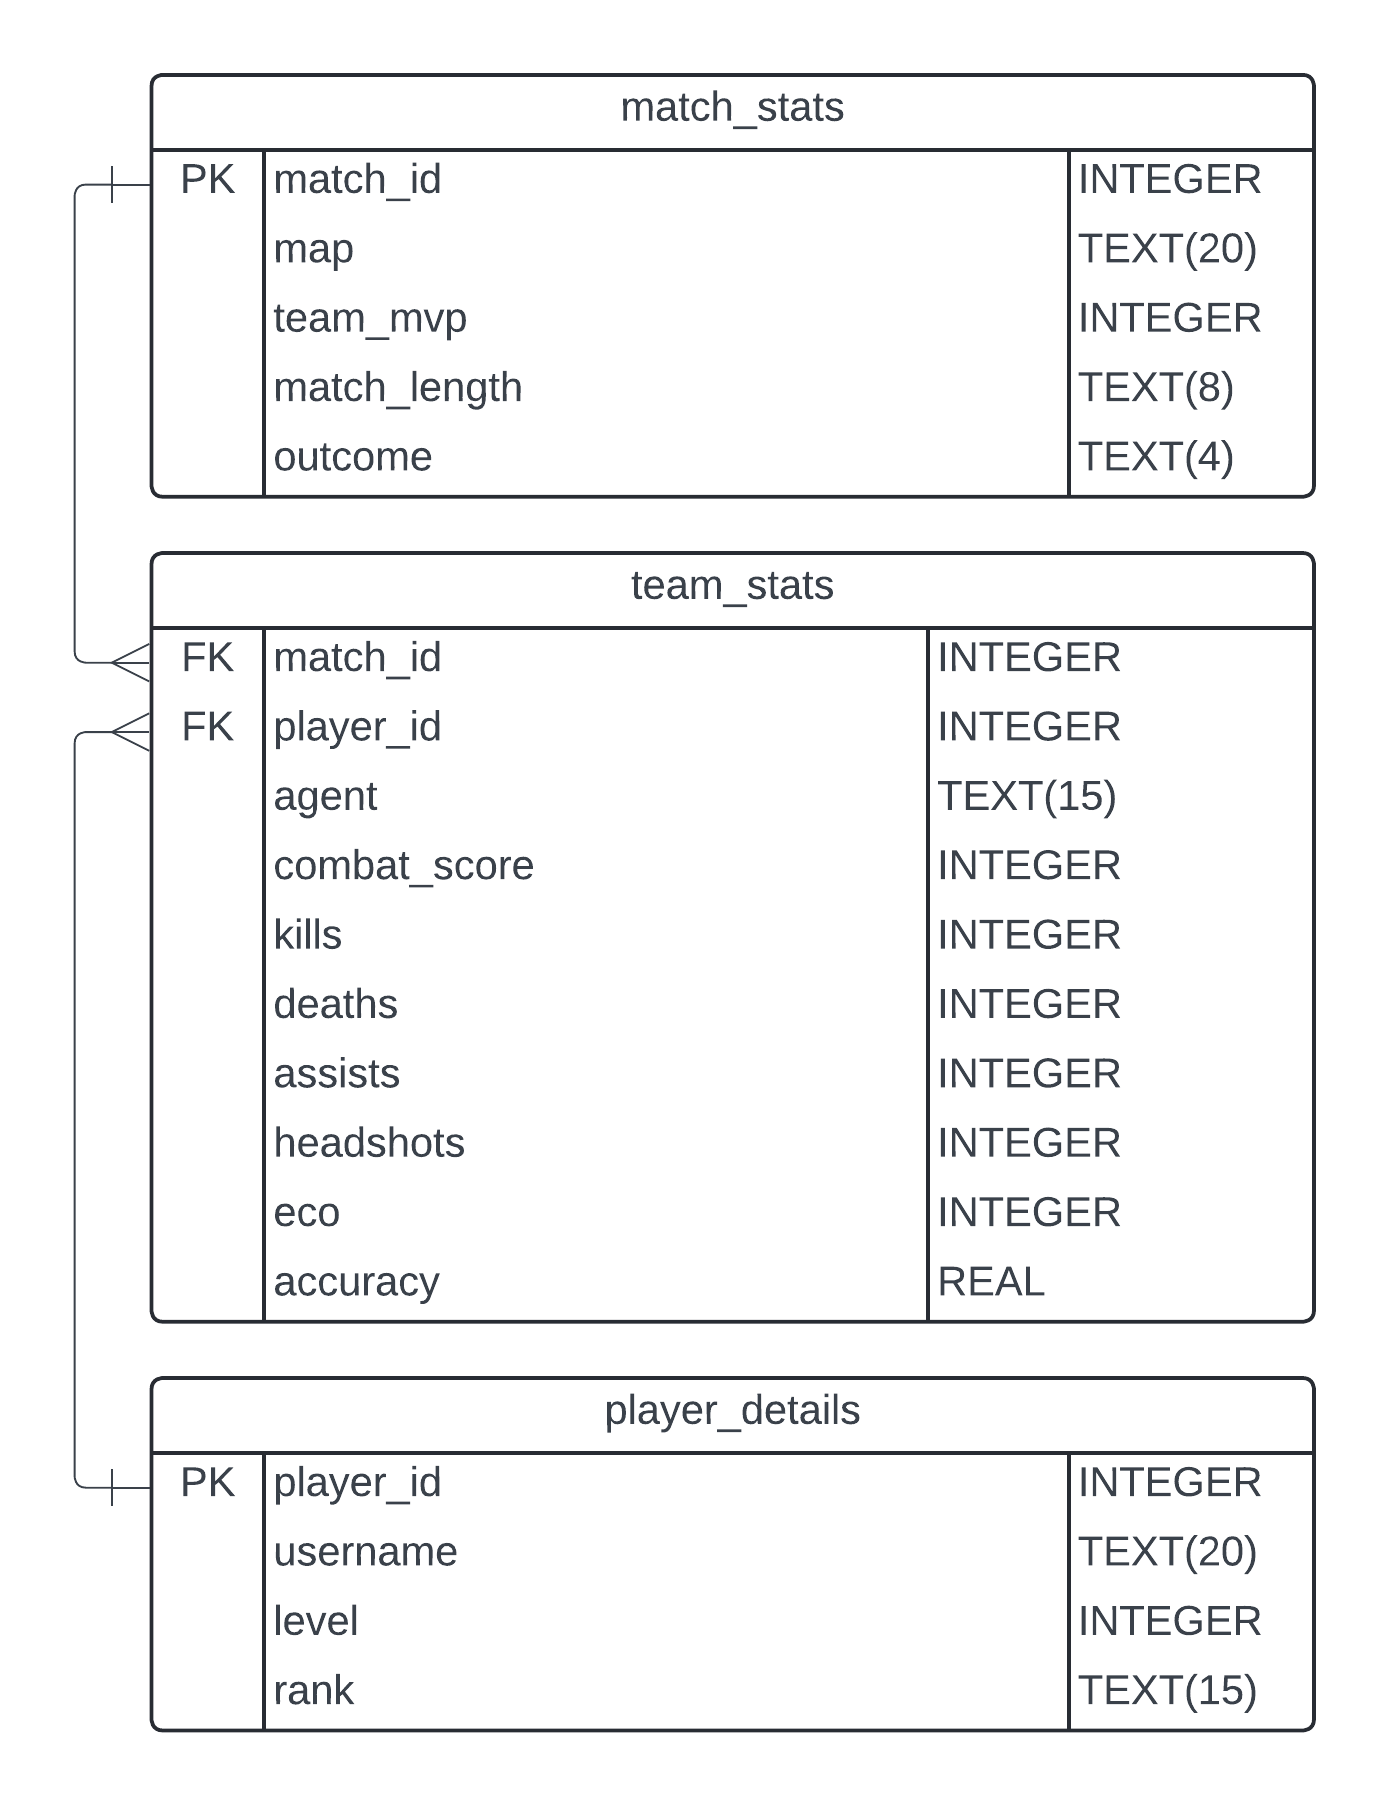
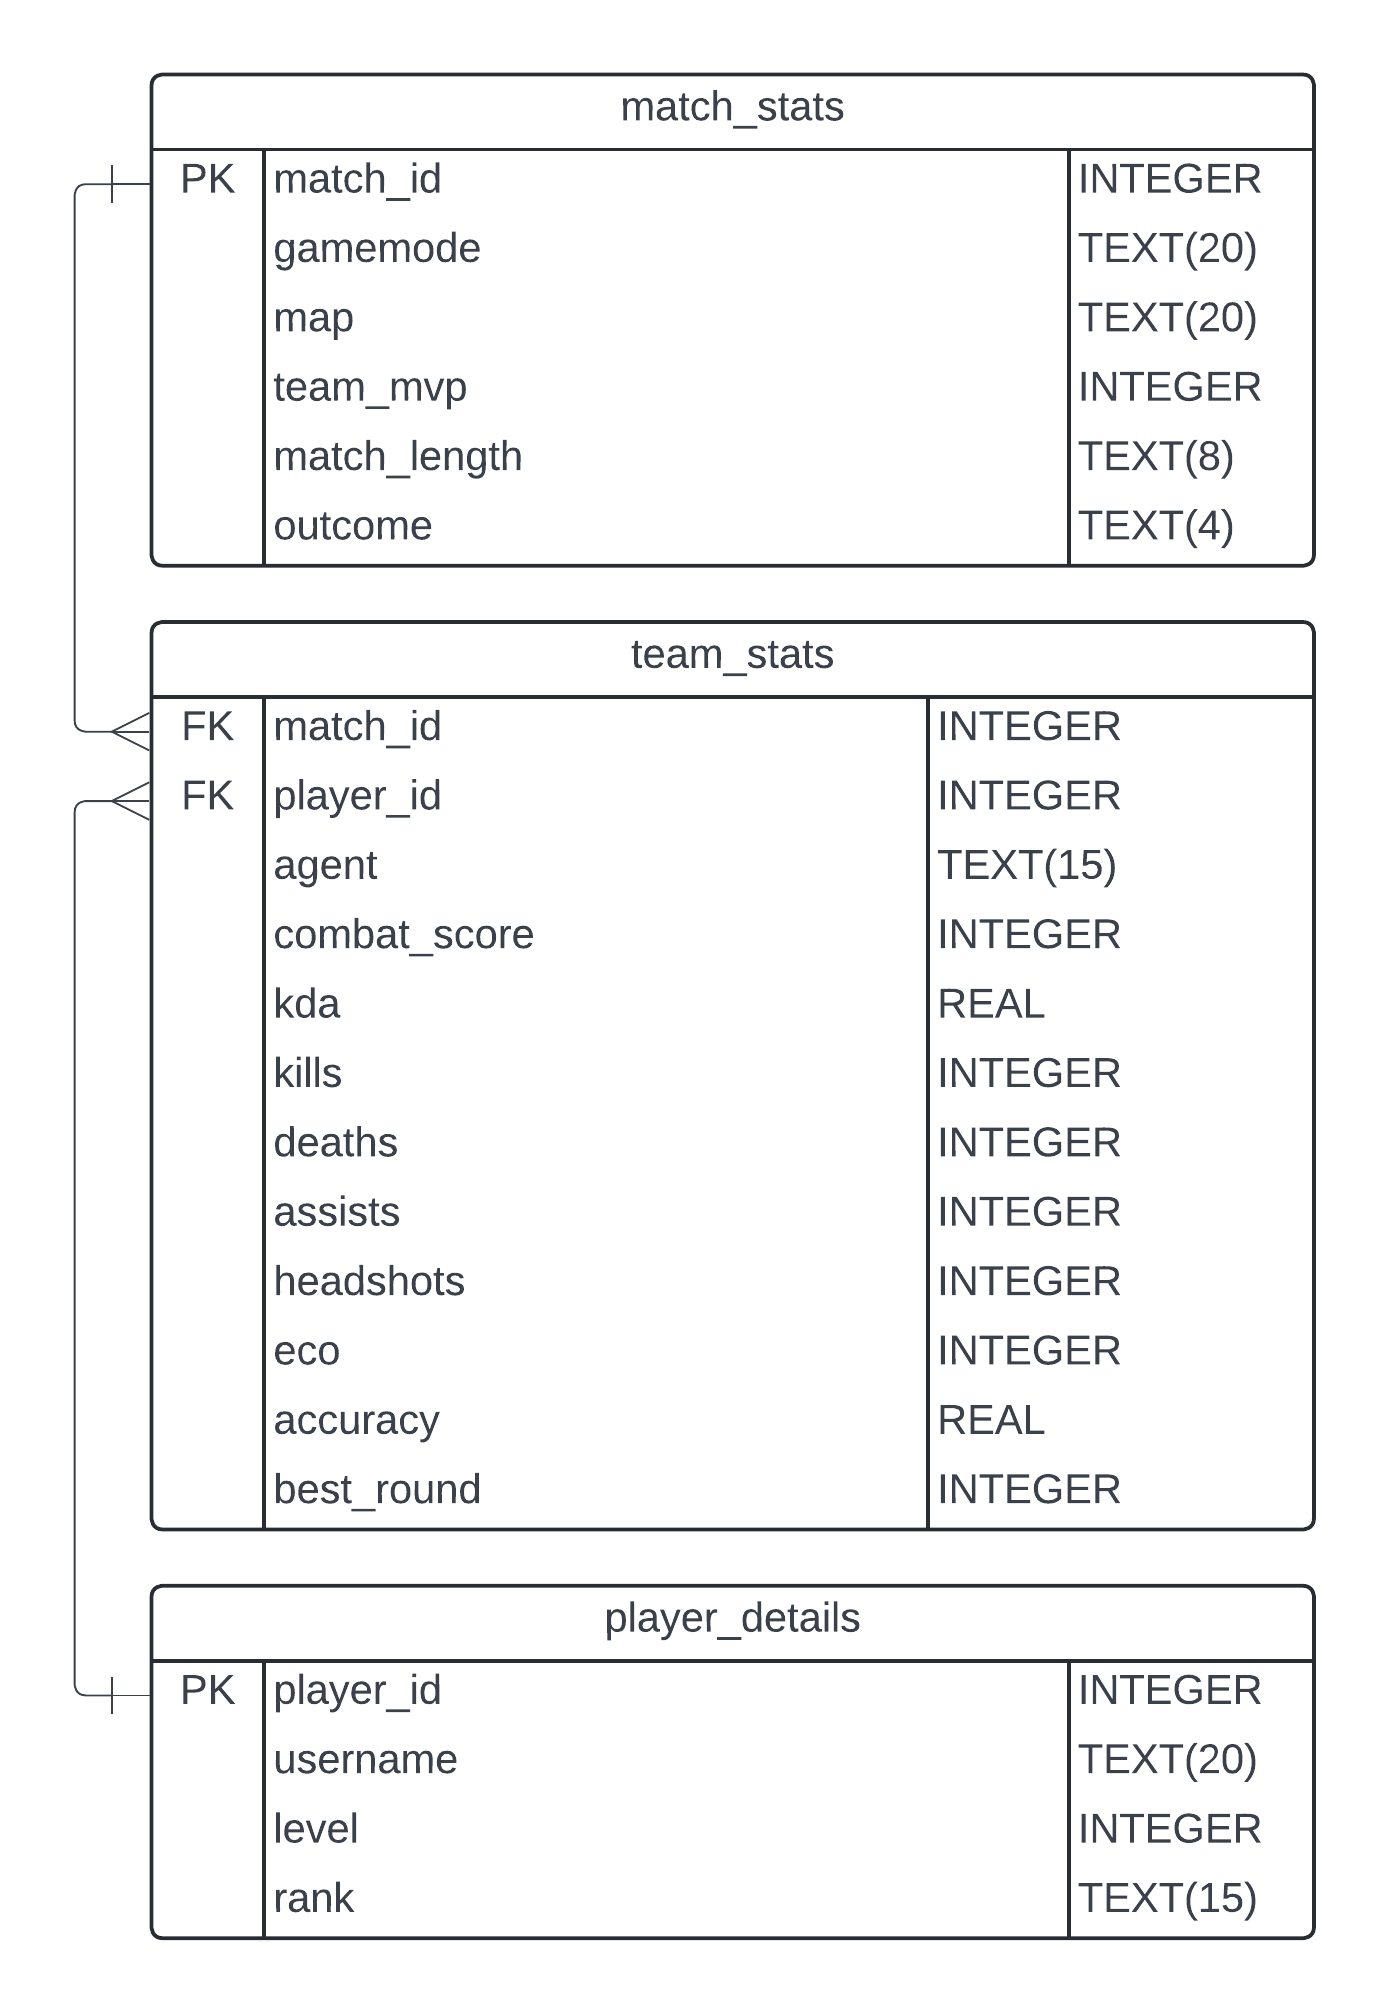
27/06/2024 Finished Custom Paramaters for Text Based UI Updated ERD Updated Database

Changed region(s): [[0.0619, 0.031, 0.9597, 0.9612]]

diff --git a/Valorant Match Stats Interface.py b/Valorant Match Stats Interface.py
@@ -67,70 +67,6 @@ def select_view():
             print("Returning to main selection screen.\n")
         else:
             print("That is not a valid decision, please try again\n")
-
-def basic_custom():
-    print("You chose B: A basic custom view maker. (Parameter Queries)\n")
-    choice = ""
-    while choice != "Z":
-        choice = input("Please choose a table:\n"
-                            "A: Player Details\n"
-                            "B: Match Details\n"
-                            "C: Match Stats\n"
-                            "Z: Exit\n")
-        try:
-            choice = choice.upper()
-        except:
-            ""
-        # Player Details
-        if choice == "A":
-            print("You chose A: Player Details, Choose what columns you want to view.\n")
-            column_list = input("The columns:\n"
-                                "A: Player ID\n"
-                                "B: Username\n"
-                                "C: Level\n"
-                                "D: Rank\n"
-                                "Enter the columns you want to view (Seperated by a space e.g. 'A B C'): ").split()
-            for i in range(len(column_list)):
-                column_list[i] = column_list[i].upper()
-
-        # Match Details
-        elif choice == "B":
-            print("You chose B: Match Details, Choose what columns you want to view.\n")
-            column_list = input("The columns:\n"
-                                "A: Match ID\n"
-                                "B: Map\n"
-                                "C: Team MVP\n"
-                                "D: Match Length\n"
-                                "E: Outcome (Win/Lose)\n"
-                                "Enter the columns you want to view (Seperated by a space e.g. 'A B C'): ").split()
-            for i in range(len(column_list)):
-                column_list[i] = column_list[i].upper()
-        # Match Stats
-        elif choice == "C":
-            print("You chose C: Match Stats, Choose what columns you want to view.\n")
-            column_list = input("The columns:\n"
-                                "A: Match ID\n"
-                                "B: Player ID\n"
-                                "C: Username\n"
-                                "D: Agent\n"
-                                "E: Combat Score\n"
-                                "F: Kills\n"
-                                "G: Deaths\n"
-                                "H: Assists\n"
-                                "I: Headshots\n"
-                                "J: Eco Score\n"
-                                "K: Accuracy\n"
-                                "Enter the columns you want to view (Seperated by a space e.g. 'A B C'): ").split()
-            for i in range(len(column_list)):
-                column_list[i] = column_list[i].upper()
-        elif choice == "Z":
-            print("Returning to main selection screen.\n")
-        else:
-            print("That is not a valid decision, please try again\n")
-        
-        # select names
-        query = naming_selection(column_list, choice)
-        
 def final_query(query, choice):
     if choice == "A":
         where = paramA()
@@ -151,17 +87,18 @@ def paramA():
                             "Z: No Filter\n").upper()
         if param_choice == "A":
             valid = True
-            return(" where username = '"+ input("Please enter a username (Make sure the spelling is correct):\n"))
+            return(" where username = '"+ input("Please enter a username (Make sure the spelling is correct):\n")+"'")
         elif param_choice == "B":
             param = input("Please enter a minimum level:\n")
             valid = True
             try:
-                return(f" where level > {int(param)} and level < "+int(input("Please enter a maximum level:\n")))
+                return(f" where level > {str(int(param))} and level < "+ str(int(input("Please enter a maximum level:\n"))))
             except:
                 valid = False
+                print("That is not a selection. Please try again.")
         elif param_choice == "Z":
             valid = True
-            return()
+            return("")
         else:
             print("That is not a selection. Please try again.")
 def paramB():
@@ -170,26 +107,30 @@ def paramB():
     while valid != True:
         param_choice = input("Please select a filter/parameter:\n"
                             "A: Match ID\n"
-                            "B: Map\n"
-                            "C: Outcome\n"
+                            "B: Gamemode\n"
+                            "C: Map\n"
+                            "D: Outcome\n"
                             "Z: No Filter\n").upper()
         if param_choice == "A":
             valid = True
             try:
-                return(" where match_id = '"+int(input("Please enter a Match ID:\n"))+"'")
+                return(" where match_id = '"+str(int(input("Please enter a Match ID:\n")))+"'")
             except:
                 valid = False
         elif param_choice == "B":
             valid = True
-            return(f" where map = '{input("Please enter a map (Make sure the spelling & is correct):\n").title()}'")
+            return(" where gamemode = '"+input("Please enter a gamemode (Make sure the spelling is correct):\n").title()+"'")
         elif param_choice == "C":
+            valid = True
+            return(" where map = '"+input("Please enter a map (Make sure the spelling is correct):\n").title()+"'")
+        elif param_choice == "D":
             param = input("Please enter an outcome (Win or Lose):\n").title().lower()
             if param == "win" or param == "lose":
                 valid = True
                 return(f" where outcome = '{param}'")
         elif param_choice == "Z":
             valid = True
-            return()
+            return("")
         else:
             print("That is not a selection. Please try again.")
 def paramC():
@@ -200,42 +141,34 @@ def paramC():
                             "A: Match ID\n"
                             "B: Username\n"
                             "C: Combat Score Range\n"
-                            "D: Kills Range\n"
-                            "E: Deaths Range\n"
+                            "D: KDA Range\n"
                             "Z: No Filter\n").upper()
         if param_choice == "A":
             valid = True
             try:
-                return(f" where match_id = '{int(input("Please enter a Match ID:\n"))}'")
+                return(" where match_id = '"+str(int(input("Please enter a Match ID:\n")))+"'")
             except:
                 valid = False
         elif param_choice == "B":
             valid = True
-            return(f" where username = '{input("Please enter a username (Make sure the spelling is correct):\n")}'" )
+            return(" where username = '"+input("Please enter a username (Make sure the spelling is correct):\n")+"'" )
         elif param_choice == "C":
             param = input("Please enter a minimum Combat Score:\n")
             valid = True
             try:
-                return(f" where level > {int(param)} and level < {int(input("Please enter a maximum Combat Score:\n"))}")
+                return(f" where combat_score > {str(int(param))} and combat_score < "+str(int(input("Please enter a maximum Combat Score:\n"))))
             except:
                 valid = False
         elif param_choice == "D":
-            param = input("Please enter a minimum number of kills:\n")
+            param = input("Please enter a minimum KDA:\n")
             valid = True
             try:
-                return(f" where level > {int(param)} and level < {int(input("Please enter a maximum number of kills:\n"))}")
-            except:
-                valid = False
-        elif param_choice == "E":
-            param = input("Please enter a minimum number of deaths:\n")
-            valid = True
-            try:
-                return(f" where level > {int(param)} and level < {int(input("Please enter a maximum number of deaths:\n"))}")
+                return(f" where kda > {str(float(param))} and kda < "+str(float(input("Please enter a maximum KDA:\n"))))
             except:
                 valid = False
         elif param_choice == "Z":
             valid = True
-            return()
+            return("")
         else:
             print("That is not a selection. Please try again.")
 def naming_selection(lst, tabl):
@@ -251,6 +184,8 @@ def naming_selection(lst, tabl):
                 newlist.append("level")
             elif i == "D":
                 newlist.append("rank")
+            elif i == "*":
+                newlist.append("*")
     elif tabl == "B":
         table = "match_stats"
         for i in lst:
@@ -264,13 +199,15 @@ def naming_selection(lst, tabl):
                 newlist.append("match_length as 'match length'")
             elif i == "E":
                 newlist.append("outcome")
+            elif i == "*":
+                newlist.append("*")
     elif tabl == "C":
         table = "team_stats left join player_details on team_stats.player_id = player_details.player_id"
         for i in lst:
             if i == "A":
                 newlist.append("match_id as 'match id'")
             elif i == "B":
-                newlist.append("player_id as 'player id'")
+                newlist.append("team_stats.player_id as 'player id'")
             elif i == "C":
                 newlist.append("username") 
             elif i == "D":
@@ -289,6 +226,8 @@ def naming_selection(lst, tabl):
                 newlist.append("eco")
             elif i == "K":
                 newlist.append("accuracy") 
+            elif i == "*":
+                newlist.append("*")
             
     select_query = ""
     for i in newlist:
@@ -311,6 +250,79 @@ def sql_input(inp):
     print(tabulate(results,headings))
     db.close()
     cont()
+
+def basic_custom():
+    print("You chose B: A basic custom view maker. (Parameter Queries)\n")
+    choice = ""
+    while choice != "Z" or choice != "A" or choice != "B" or choice != "C":
+        choice = input("Please choose a table:\n"
+                            "A: Player Details\n"
+                            "B: Match Details\n"
+                            "C: Match Stats\n"
+                            "Z: Exit\n")
+        try:
+            choice = choice.upper()
+        except:
+            print("ERROR!!!")
+        # Player Details
+        if choice == "A":
+            print("You chose A: Player Details, Choose what columns you want to view.\n")
+            column_list = input("The columns:\n"
+                                "A: Player ID\n"
+                                "B: Username\n"
+                                "C: Level\n"
+                                "D: Rank\n"
+                                "Enter the columns you want to view (Seperated by a space e.g. 'A B C'): ").split()
+            print("")
+            for i in range(len(column_list)):
+                column_list[i] = column_list[i].upper()
+            
+        # Match Details
+        elif choice == "B":
+            print("You chose B: Match Details, Choose what columns you want to view.\n")
+            column_list = input("The columns:\n"
+                                "A: Match ID\n"
+                                "B: Gamemode\n"
+                                "C: Map\n"
+                                "D: Team MVP\n"
+                                "E: Match Length\n"
+                                "F: Outcome (Win/Lose)\n"
+                                "Enter the columns you want to view (Seperated by a space e.g. 'A B C'): ").split()
+            print("")
+            for i in range(len(column_list)):
+                column_list[i] = column_list[i].upper()
+            
+        # Match Stats
+        elif choice == "C":
+            print("You chose C: Match Stats, Choose what columns you want to view.\n")
+            column_list = input("The columns:\n"
+                                "A: Match ID\n"
+                                "B: Player ID\n"
+                                "C: Username\n"
+                                "D: Agent\n"
+                                "E: Combat Score\n"
+                                "F: KDA"
+                                "G: Kills\n"
+                                "H: Deaths\n"
+                                "I: Assists\n"
+                                "J: Headshots\n"
+                                "K: Eco Score\n"
+                                "L: Accuracy\n"
+                                "M: Best Round\n"
+                                "Enter the columns you want to view (Seperated by a space e.g. 'A B C'): ").split()
+            print("")
+            for i in range(len(column_list)):
+                column_list[i] = column_list[i].upper()
+            
+        elif choice == "Z":
+            print("Returning to main selection screen.\n")
+        elif choice != "A" or choice != "B" or choice != "C" or choice != "Z":
+            print("That is not a valid decision, please try again\n")       
+         # select names
+        print("")
+        query = naming_selection(column_list, choice)
+        final_query(query, choice)
+        
 
 print("\n\n\n\nWelcome to Jonathon's Valorant Stats database.\n")
 choice = ""
